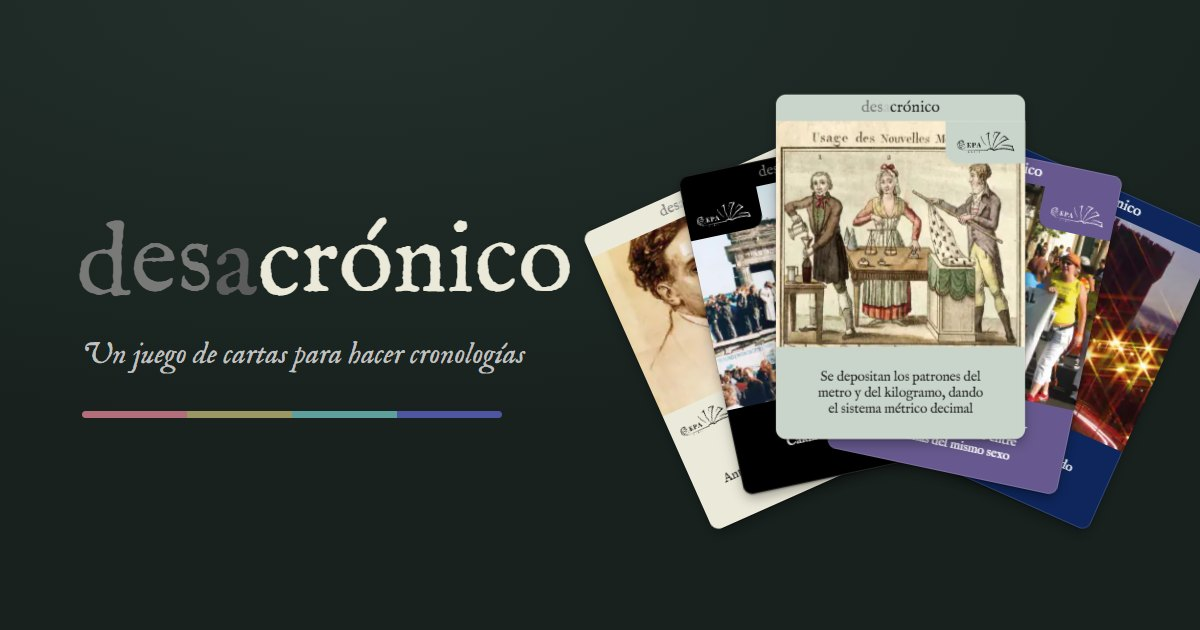
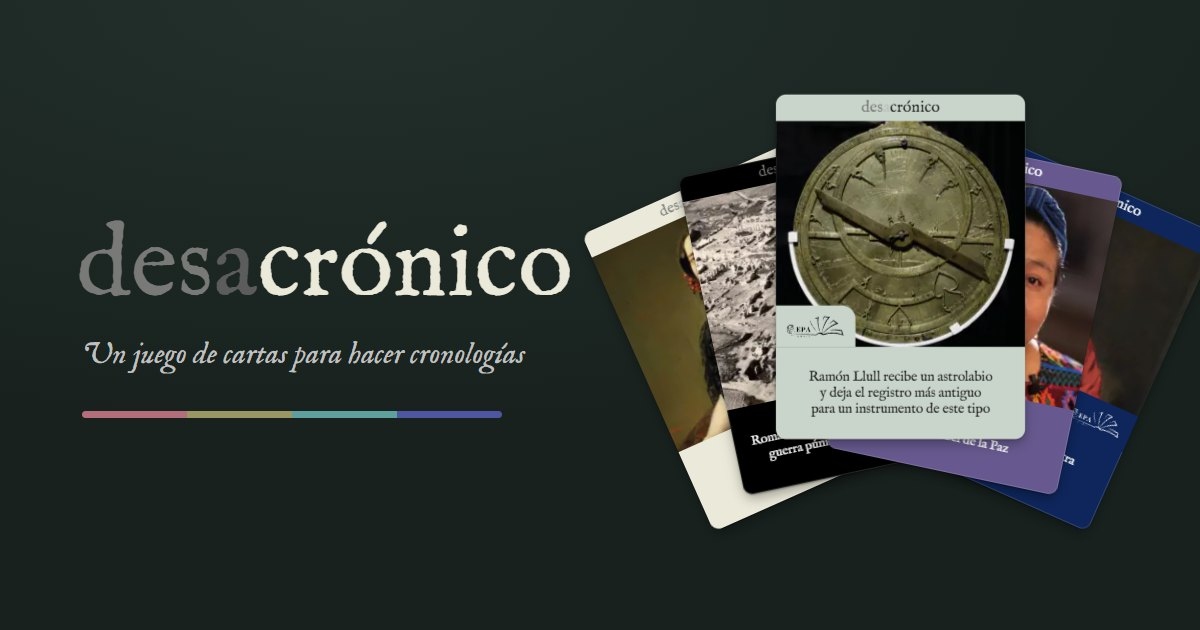
Marca: «es» y «rónico» alineados con la «d» y la «a»
Las cajitas del despliegue iban alineadas por arriba y quedaban 2 px más
altas en la portada (más en la imagen para compartir, que se rehace).

diff --git a/src/lib/Marca.svelte b/src/lib/Marca.svelte
@@ -27,7 +27,8 @@
   /* Al acabar no queda ningún tope (fill backwards): la palabra es la de siempre. */
   .despliega .crece {
     display: inline-block;
-    vertical-align: top;
+    /* por abajo, no por arriba: con «top», «es» y «rónico» quedaban 2 px más altos que la «d» y la «a» */
+    vertical-align: bottom;
     overflow: hidden;
     animation: abrir 0.95s var(--curva-deslizar) 0.75s backwards;
   }
